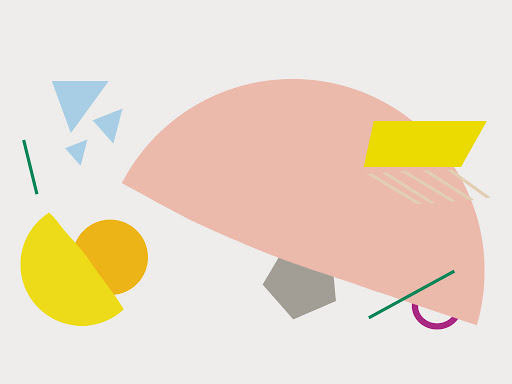
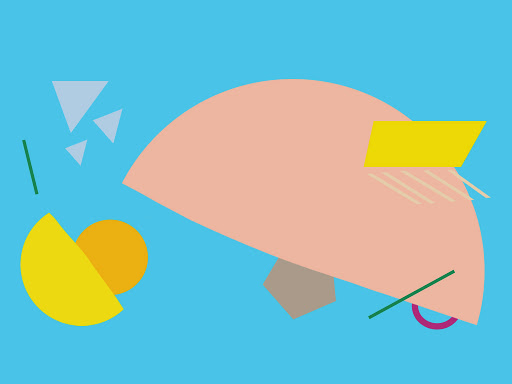
header looks good

diff --git a/app/styles/main.css b/app/styles/main.css
@@ -2,11 +2,12 @@
 body {
   background-color: #5bdaf9;
   background-image: url("/images/VidComb_Background1.jpg");
-  background-repeat: no-repeat;
+  background-size: cover;
+  /*background-repeat: no-repeat;
   background-attachment: fixed; 
   background-position: center; 
   padding-top: 20px;
-  padding-bottom: 20px;
+  padding-bottom: 20px;*/
 }
 
 /* Everything but the jumbotron gets side spacing for mobile first views */
@@ -21,13 +22,9 @@ body {
     background-color: #505253;
     border-color: #505253;
 }
-.no-padding{
-  padding: 0px 0px;
+.navbar-brand{
+  padding: 0px 15px;
 }
-.navbar-brand {
-  /*color: $colDefault;*/
-}
-
 /* Custom page header */
 .header {
   background-color: #F8F8F8;
